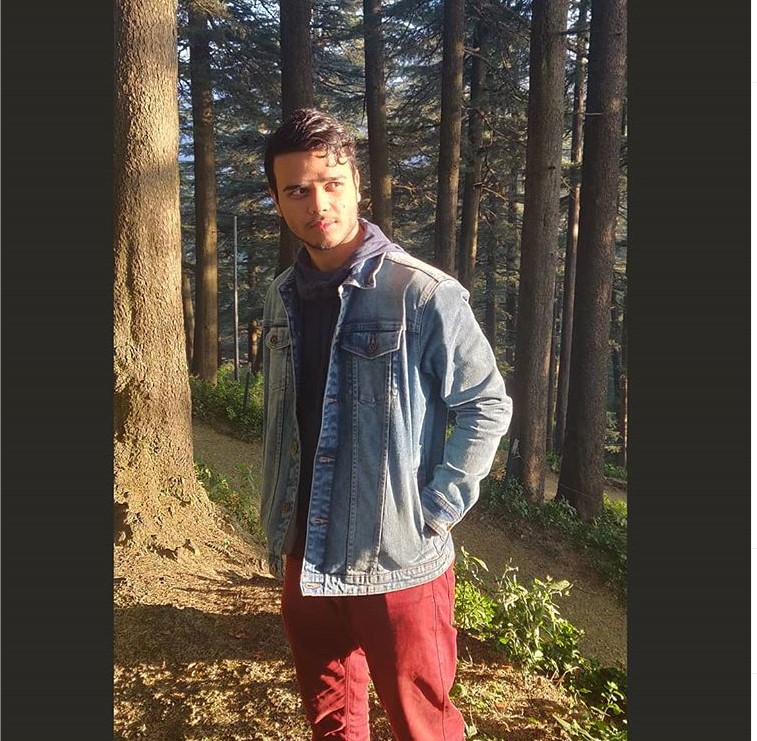
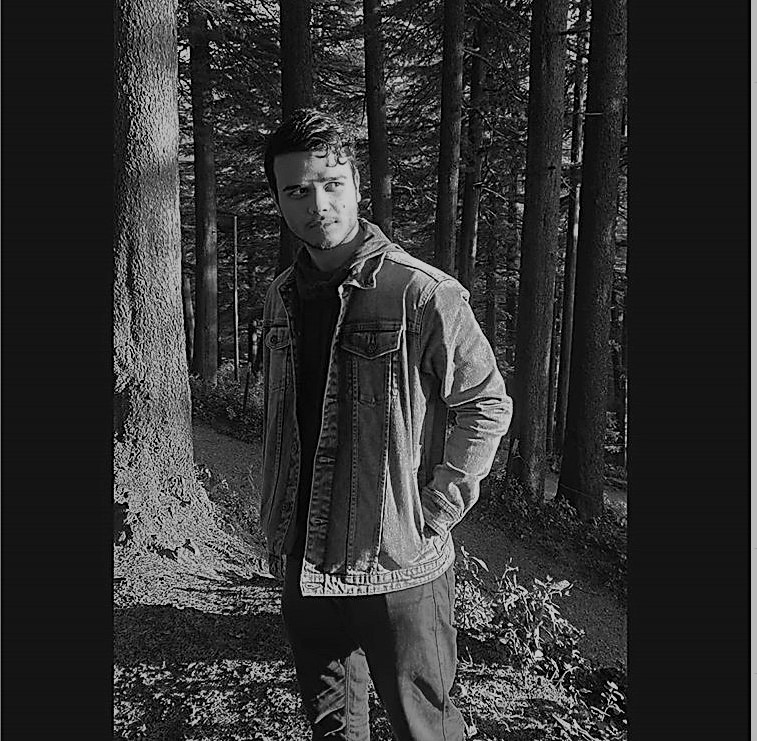
Sharma photo now BW

diff --git a/src/App.css b/src/App.css
@@ -118,16 +118,16 @@
   padding-bottom: 20vh;
 }
 .s2-logo-name{
-  padding-left: 42vw;
+  padding-left: 37vw;
   display: flex;
   flex-direction: row;
   color: black;
-  font-size: 2.5vw;
+  font-size: 4vw;
   font-weight: 600;
 }
 
 .s2-logo-name img{
-  height: 3vw;
+  height: 5.0125vw;
   filter: invert(0%) sepia(0%) saturate(23%) hue-rotate(104deg) brightness(104%) contrast(100%) opacity(.85);
   
 }
